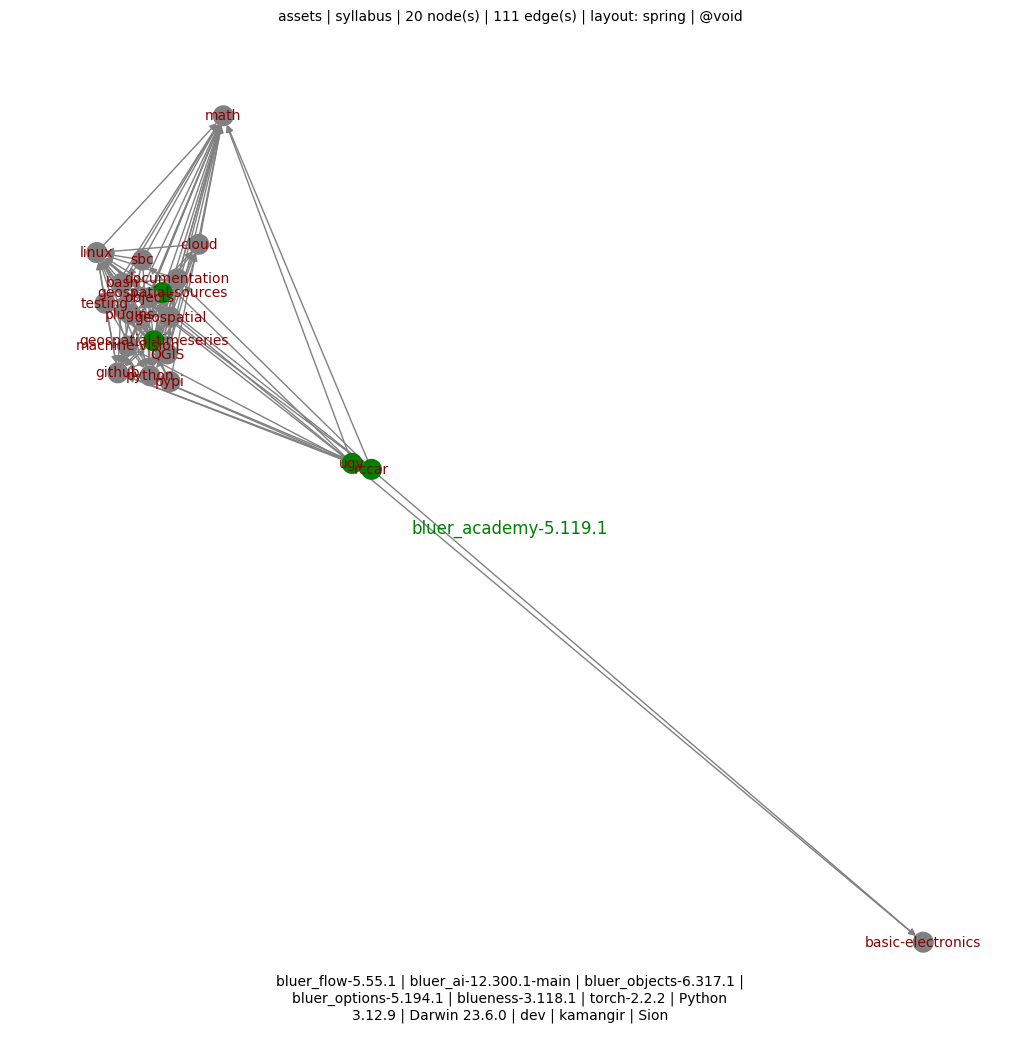
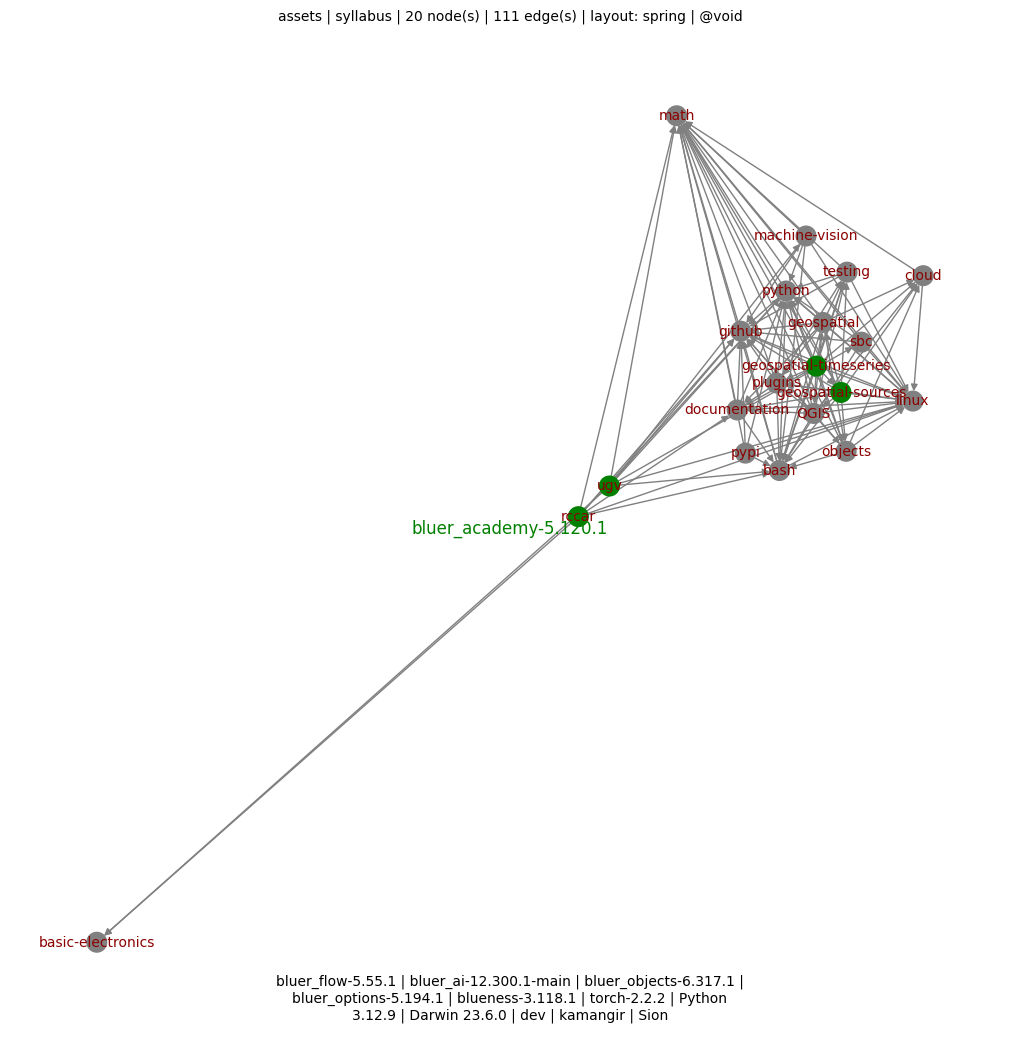
++ - kamangir/bolt#746

diff --git a/bluer_academy/academy/classes/syllabus.py b/bluer_academy/academy/classes/syllabus.py
@@ -132,7 +132,11 @@ class Syllabus:
 
         for topic_name in sorted_list_of_topic_names:
             topic = self.topic(topic_name)
-            topic.required_for = G.successors(topic_name)
+            topic.required_for = [
+                topic_name
+                for topic_name in sorted_list_of_topic_names
+                if topic_name in self.topic(topic_name).requirements
+            ]
 
         return True
 

diff --git a/bluer_academy/__init__.py b/bluer_academy/__init__.py
@@ -4,7 +4,7 @@ ICON = "📐"
 
 DESCRIPTION = f"{ICON} an academy for practical AI in Iran."
 
-VERSION = "5.119.1"
+VERSION = "5.120.1"
 
 REPO_NAME = "bluer-academy"
 

diff --git a/README.md b/README.md
@@ -15,4 +15,4 @@ pip install bluer-academy
 
 [![pylint](https://github.com/kamangir/bluer-academy/actions/workflows/pylint.yml/badge.svg)](https://github.com/kamangir/bluer-academy/actions/workflows/pylint.yml) [![pytest](https://github.com/kamangir/bluer-academy/actions/workflows/pytest.yml/badge.svg)](https://github.com/kamangir/bluer-academy/actions/workflows/pytest.yml) [![bashtest](https://github.com/kamangir/bluer-academy/actions/workflows/bashtest.yml/badge.svg)](https://github.com/kamangir/bluer-academy/actions/workflows/bashtest.yml) [![PyPI version](https://img.shields.io/pypi/v/bluer-academy.svg)](https://pypi.org/project/bluer-academy/) [![PyPI - Downloads](https://img.shields.io/pypi/dd/bluer-academy)](https://pypistats.org/packages/bluer-academy)
 
-built by 🌀 [`bluer README`](https://github.com/kamangir/bluer-objects/tree/main/bluer_objects/README), based on 📐 [`bluer_academy-5.119.1`](https://github.com/kamangir/bluer-academy).
+built by 🌀 [`bluer README`](https://github.com/kamangir/bluer-objects/tree/main/bluer_objects/README), based on 📐 [`bluer_academy-5.120.1`](https://github.com/kamangir/bluer-academy).

diff --git a/bluer_academy/docs/academy/syllabus/geospatial-timeseries.md b/bluer_academy/docs/academy/syllabus/geospatial-timeseries.md
@@ -7,7 +7,6 @@ includes:
 
 ⬅ requires: [QGIS](./QGIS.md), [bash](./bash.md), [cloud](./cloud.md), [documentation](./documentation.md), [geospatial](./geospatial.md), [geospatial-sources](./geospatial-sources.md), [github](./github.md), [linux](./linux.md), [math](./math.md), [objects](./objects.md), [plugins](./plugins.md), [python](./python.md), [testing](./testing.md)
 
-➡ required for: [geospatial](./geospatial.md), [geospatial-sources](./geospatial-sources.md)
 
 ⏳ duration: 6.0 hours
 

diff --git a/bluer_academy/docs/academy/syllabus/geospatial.md b/bluer_academy/docs/academy/syllabus/geospatial.md
@@ -10,7 +10,6 @@ includes:
 
 ⬅ requires: [bash](./bash.md), [cloud](./cloud.md), [documentation](./documentation.md), [github](./github.md), [linux](./linux.md), [math](./math.md), [objects](./objects.md), [plugins](./plugins.md), [python](./python.md), [testing](./testing.md)
 
-➡ required for: [python](./python.md), [bash](./bash.md), [objects](./objects.md), [cloud](./cloud.md), [plugins](./plugins.md)
 
 ⏳ duration: 6.0 hours
 

diff --git a/bluer_academy/docs/academy/syllabus/geospatial-sources.md b/bluer_academy/docs/academy/syllabus/geospatial-sources.md
@@ -11,7 +11,6 @@ includes:
 
 ⬅ requires: [QGIS](./QGIS.md), [bash](./bash.md), [cloud](./cloud.md), [documentation](./documentation.md), [geospatial](./geospatial.md), [github](./github.md), [linux](./linux.md), [math](./math.md), [objects](./objects.md), [plugins](./plugins.md), [python](./python.md), [testing](./testing.md)
 
-➡ required for: [geospatial](./geospatial.md), [QGIS](./QGIS.md)
 
 ⏳ duration: 6.0 hours
 

diff --git a/bluer_academy/docs/academy/syllabus/plugins.md b/bluer_academy/docs/academy/syllabus/plugins.md
@@ -7,7 +7,6 @@ includes:
 
 ⬅ requires: [bash](./bash.md), [documentation](./documentation.md), [github](./github.md), [linux](./linux.md), [math](./math.md), [python](./python.md), [testing](./testing.md)
 
-➡ required for: [math](./math.md), [python](./python.md), [bash](./bash.md), [github](./github.md), [documentation](./documentation.md), [testing](./testing.md)
 
 ⏳ duration: 3.0 hours
 

diff --git a/bluer_academy/docs/academy/syllabus/ugv.md b/bluer_academy/docs/academy/syllabus/ugv.md
@@ -10,7 +10,6 @@ includes:
 
 ⬅ requires: [bash](./bash.md), [basic-electronics](./basic-electronics.md), [github](./github.md), [linux](./linux.md), [machine-vision](./machine-vision.md), [math](./math.md), [python](./python.md), [sbc](./sbc.md)
 
-➡ required for: [sbc](./sbc.md), [machine-vision](./machine-vision.md), [basic-electronics](./basic-electronics.md)
 
 ⏳ duration: 12.0 hours
 

diff --git a/bluer_academy/docs/academy/syllabus/QGIS.md b/bluer_academy/docs/academy/syllabus/QGIS.md
@@ -11,7 +11,6 @@ includes:
 
 ⬅ requires: [bash](./bash.md), [cloud](./cloud.md), [documentation](./documentation.md), [geospatial](./geospatial.md), [github](./github.md), [linux](./linux.md), [math](./math.md), [objects](./objects.md), [plugins](./plugins.md), [python](./python.md), [testing](./testing.md)
 
-➡ required for: [geospatial](./geospatial.md)
 
 ⏳ duration: 3.0 hours
 

diff --git a/bluer_academy/docs/academy/syllabus/rccar.md b/bluer_academy/docs/academy/syllabus/rccar.md
@@ -7,7 +7,6 @@ includes:
 
 ⬅ requires: [bash](./bash.md), [basic-electronics](./basic-electronics.md), [documentation](./documentation.md), [github](./github.md), [linux](./linux.md), [math](./math.md), [python](./python.md)
 
-➡ required for: [documentation](./documentation.md), [basic-electronics](./basic-electronics.md)
 
 ⏳ duration: 6.0 hours
 

diff --git a/bluer_academy/docs/academy/syllabus/objects.md b/bluer_academy/docs/academy/syllabus/objects.md
@@ -10,7 +10,6 @@ includes:
 
 ⬅ requires: [bash](./bash.md), [cloud](./cloud.md), [github](./github.md), [linux](./linux.md), [math](./math.md), [python](./python.md)
 
-➡ required for: [cloud](./cloud.md), [python](./python.md), [bash](./bash.md)
 
 ⏳ duration: 3.0 hours
 

diff --git a/bluer_academy/docs/academy/syllabus/pypi.md b/bluer_academy/docs/academy/syllabus/pypi.md
@@ -7,7 +7,6 @@ includes:
 
 ⬅ requires: [bash](./bash.md), [github](./github.md), [linux](./linux.md), [math](./math.md), [python](./python.md)
 
-➡ required for: [linux](./linux.md), [python](./python.md), [github](./github.md), [bash](./bash.md)
 
 ⏳ duration: 3.0 hours
 
